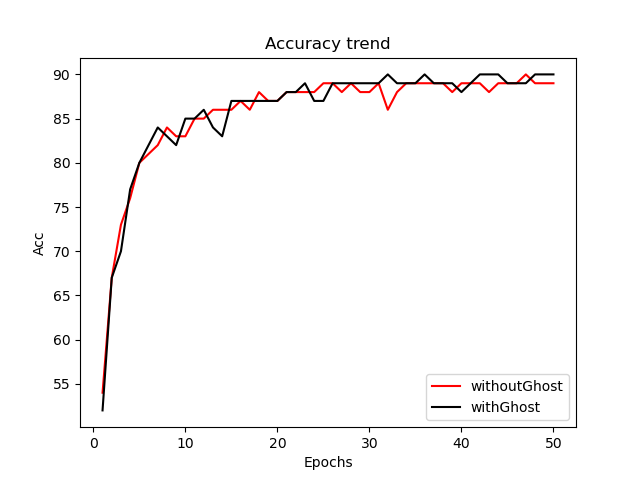
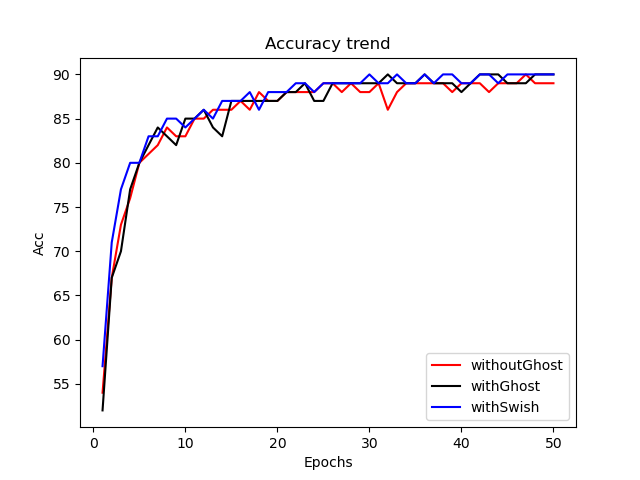
add senet

diff --git a/senet.py b/senet.py
@@ -1,0 +1,103 @@
+import torch
+import torch.nn as nn
+import torch.nn.functional as F
+
+# 基础残差
+class ResidualBlock(nn.Module):
+    def __init__(self, inchannel, outchannel, stride=1):
+        super(ResidualBlock, self).__init__()
+        self.left = nn.Sequential(
+            nn.Conv2d(inchannel, outchannel, kernel_size=3, stride=stride, padding=1, bias=False),
+            nn.BatchNorm2d(outchannel),
+            nn.ReLU(inplace=True),
+            nn.Conv2d(outchannel, outchannel, kernel_size=3, stride=1, padding=1, bias=False),
+            nn.BatchNorm2d(outchannel)
+        )
+        self.shortcut = nn.Sequential()
+        if stride != 1 or inchannel != outchannel:
+            self.shortcut = nn.Sequential(
+                nn.Conv2d(inchannel, outchannel, kernel_size=1, stride=stride, bias=False),
+                nn.BatchNorm2d(outchannel)
+            )
+
+    def forward(self, x):
+        out = self.left(x)
+        out = out + self.shortcut(x)
+        out = F.relu(out)
+
+        return out
+
+# 基础残差配置SeNet
+class ResidualBlock(nn.Module):
+    def __init__(self, inchannel, outchannel, stride=1):
+        super(ResidualBlock, self).__init__()
+        self.left = nn.Sequential(
+            nn.Conv2d(inchannel, outchannel, kernel_size=3, stride=stride, padding=1, bias=False),
+            nn.BatchNorm2d(outchannel),
+            nn.ReLU(inplace=True),
+            nn.Conv2d(outchannel, outchannel, kernel_size=3, stride=1, padding=1, bias=False),
+            nn.BatchNorm2d(outchannel)
+        )
+        self.shortcut = nn.Sequential()
+        if stride != 1 or inchannel != outchannel:
+            self.shortcut = nn.Sequential(
+                nn.Conv2d(inchannel, outchannel, kernel_size=1, stride=stride, bias=False),
+                nn.BatchNorm2d(outchannel)
+            )
+        # Se layers
+        self.fc1 = nn.Conv2d(outchannel, outchannel // 16, kernel_size=1)
+        self.fc2 = nn.Conv2d(outchannel // 16, outchannel, kernel_size=1)
+
+    def forward(self, x):
+        out = self.left(x)
+
+        # se
+        w = F.avg_pool2d(out, out.size(2))
+        w = F.relu(self.fc1(w))
+        w = F.sigmoid(self.fc2(w))
+
+        # excitation
+        out = out * w
+
+        out = out + self.shortcut(x)
+        out = F.relu(out)
+
+        return out
+
+# ResNet
+class ResNet(nn.Module):
+    def __init__(self, ResidualBlock, num_classes=10):
+        super(ResNet, self).__init__()
+        self.inchannel = 64
+        self.conv1 = nn.Sequential(
+            nn.Conv2d(3, 64, kernel_size=3, stride=1, padding=1, bias=False),
+            nn.BatchNorm2d(64),
+            nn.ReLU()
+        )
+        self.layer1 = self.make_layer(ResidualBlock, 64, 2, stride=1)
+        self.layer2 = self.make_layer(ResidualBlock, 128, 2, stride=2)
+        self.layer3 = self.make_layer(ResidualBlock, 256, 2, stride=2)
+        self.layer4 = self.make_layer(ResidualBlock, 512, 2, stride=2)
+        self.fc = nn.Linear(512, num_classes)
+
+    def make_layer(self, block, channels, num_blocks, stride):
+        strides = [stride] + [1] * (num_blocks - 1)
+        layers = []
+        for stride in strides:
+            layers.append(block(self.inchannel, channels, stride))
+            self.inchannel = channels
+        return nn.Sequential(*layers)
+
+    def forward(self, x):
+        out = self.conv1(x)
+        out = self.layer1(out)
+        out = self.layer2(out)
+        out = self.layer3(out)
+        out = self.layer4(out)
+        out = F.avg_pool2d(out, 4)
+        out = out.view(out.size(0), -1)
+        out = self.fc(out)
+        return out
+
+def ResNet18():
+    return ResNet(ResidualBlock)

diff --git a/gen.py b/gen.py
@@ -3,6 +3,7 @@ import matplotlib.pyplot as plt
 
 withoutGhost = []
 withGhost = []
+withSwish = []
 epoch = []
 
 for i in range(50):
@@ -10,6 +11,7 @@ for i in range(50):
 
 dataNotWithGhost = pd.read_csv('./with.csv', usecols=[0])
 dataWithGhost = pd.read_csv('./without.csv', usecols=[0])
+dataWithSwish = pd.read_csv('./withswish.csv', usecols=[0])
 
 for index, row in dataNotWithGhost.iterrows():
     withoutGhost.append(int(row['with'][7:9]))
@@ -17,10 +19,14 @@ for index, row in dataNotWithGhost.iterrows():
 for index, row in dataWithGhost.iterrows():
     withGhost.append(int(row['without'][7:9]))
 
+for index, row in dataWithSwish.iterrows():
+    withSwish.append(int(row['with'][7:9]))
+
 print(epoch)
 
 plt.plot(epoch, withoutGhost, color='r', label='withoutGhost')
 plt.plot(epoch, withGhost, color=(0, 0, 0), label='withGhost')
+plt.plot(epoch, withSwish, color='b', label='withSwish')
 
 plt.xlabel('Epochs')
 plt.ylabel('Acc')

diff --git a/run.py b/run.py
@@ -1,4 +1,4 @@
-from resnet18 import ResNet18
+from senet import ResNet18
 import torch.optim as optim
 import torchvision
 import torchvision.transforms as transforms
@@ -94,4 +94,4 @@ if __name__ == '__main__':
     print('Train has finished, total epoch is %d' % EPOCH)
 
     dataframe = pd.DataFrame({'with': without})
-    dataframe.to_csv('withswish.csv', index=False, sep=',')
+    dataframe.to_csv('withsenet.csv', index=False, sep=',')
